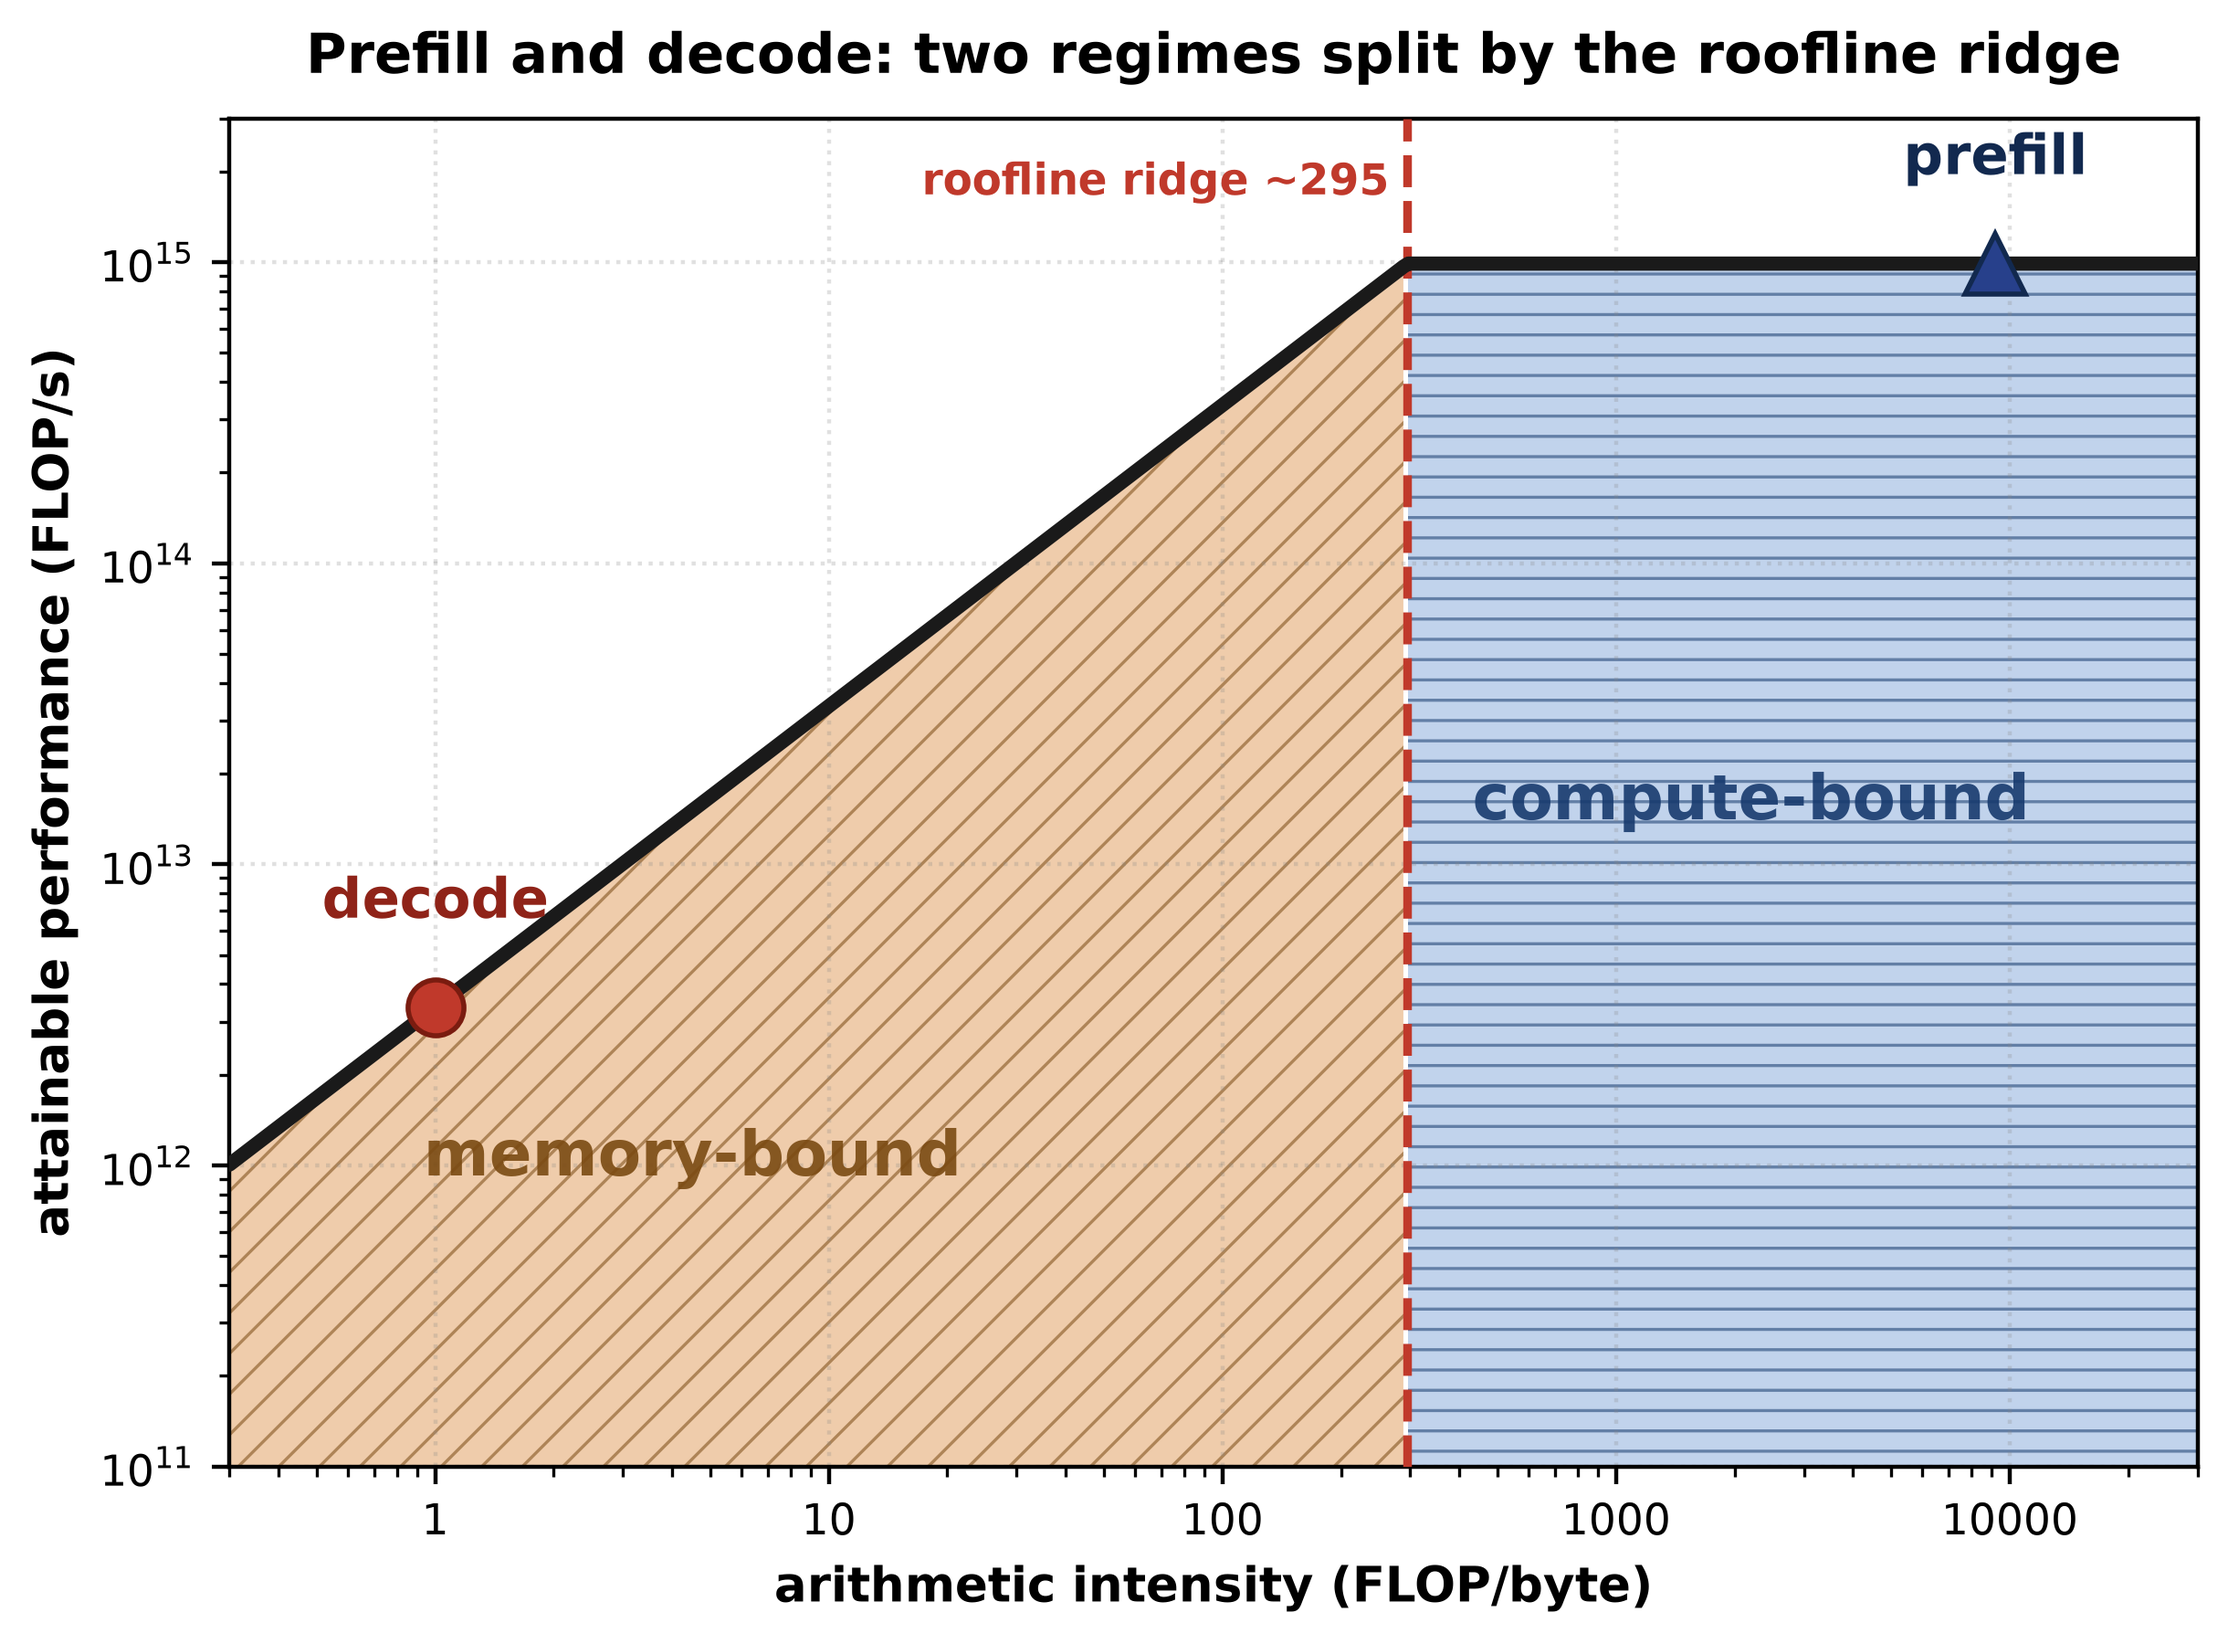
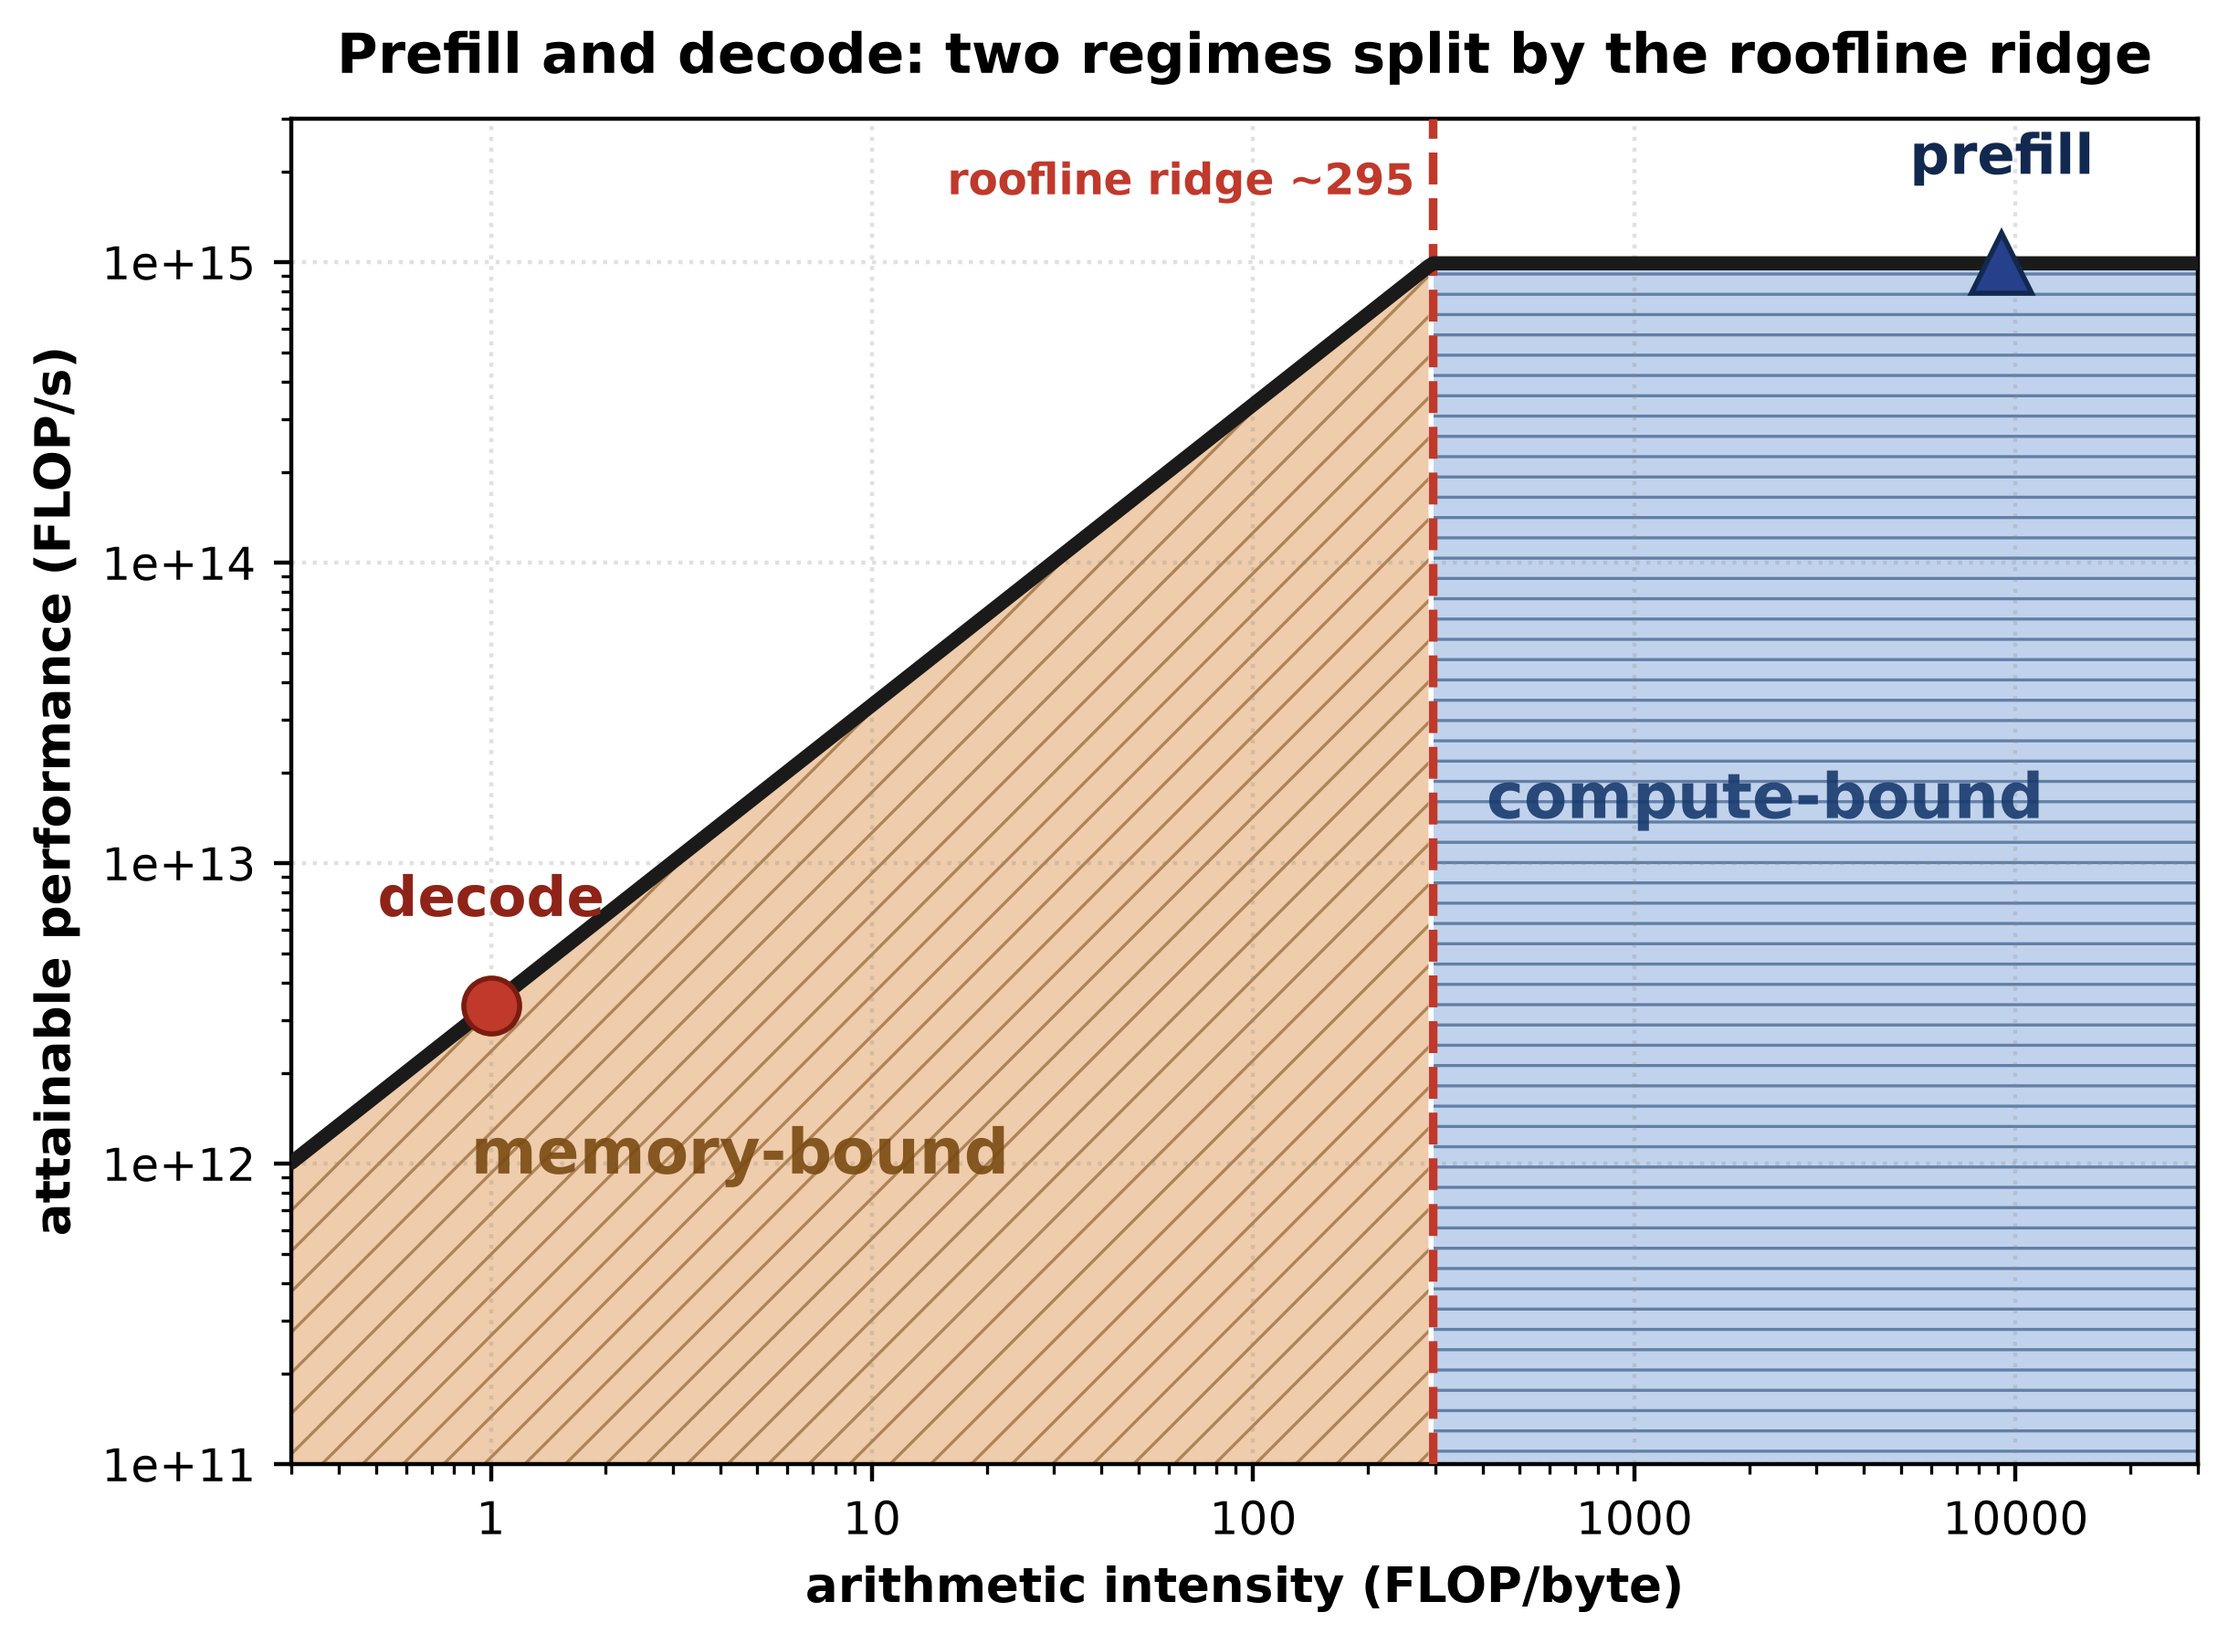
Loop1 figure fix: Fig 2.2 (roofline) y-axis sci-notation exponent was 5.88pt; switched to full-size FuncFormatter + labelsize 9.0 -> min 8.5pt, vision-verified

diff --git a/render/fig_ch2_roofline.py b/render/fig_ch2_roofline.py
@@ -97,10 +97,10 @@ ax.set_title('Prefill and decode: two regimes split by the roofline ridge',
 ax.xaxis.set_major_locator(mtick.LogLocator(base=10.0))
 ax.xaxis.set_major_formatter(mtick.FuncFormatter(lambda v, p: '%g' % round(v)))
 ax.yaxis.set_major_locator(mtick.LogLocator(base=10.0))
-ax.yaxis.set_major_formatter(mtick.LogFormatterSciNotation())
+ax.yaxis.set_major_formatter(mtick.FuncFormatter(lambda v, p: '%g' % round(v)))
 ax.xaxis.set_minor_formatter(mtick.NullFormatter())
 ax.yaxis.set_minor_formatter(mtick.NullFormatter())
-ax.tick_params(axis='both', which='major', labelsize=8.4)
+ax.tick_params(axis='both', which='major', labelsize=9.0)
 ax.grid(True, which='major', axis='both', alpha=0.26, ls=':', lw=0.8, color='#888')
 
 plt.tight_layout(pad=0.6)
